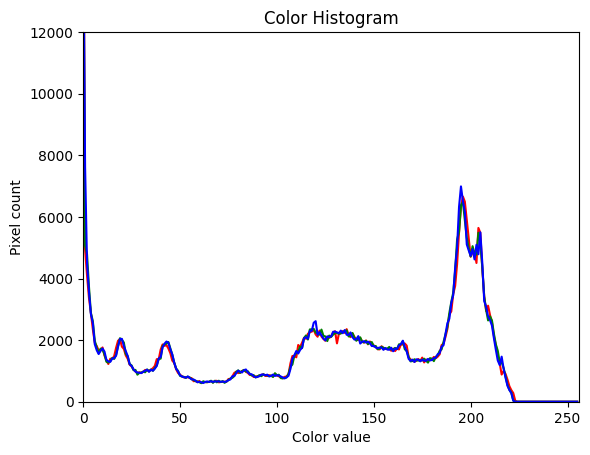
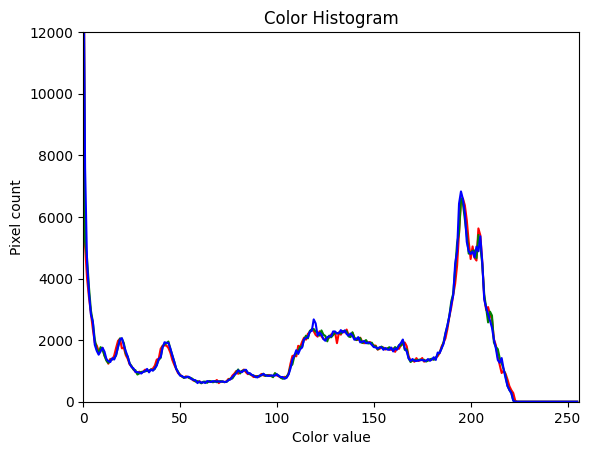
checkpoint

diff --git a/main.cpp b/main.cpp
@@ -86,6 +86,11 @@ void SlicedOptimalTransport(Settings& settings)
 
 	std::vector<uint32_t> currentSorted(c_numPixels);
 	std::vector<uint32_t> targetSorted(c_numPixels);
+	for (uint32_t i = 0; i < c_numPixels; ++i)
+	{
+		currentSorted[i] = i;
+		targetSorted[i] = i;
+	}
 
 	std::vector<float> currentProjections(c_numPixels);
 	std::vector<float> targetProjections(c_numPixels);
@@ -111,9 +116,6 @@ void SlicedOptimalTransport(Settings& settings)
 			// project current and target
 			for (size_t i = 0; i < c_numPixels; ++i)
 			{
-				currentSorted[i] = (uint32_t)i;
-				targetSorted[i] = (uint32_t)i;
-
 				currentProjections[i] =
 					direction[0] * current.pixels[i * 3 + 0] +
 					direction[1] * current.pixels[i * 3 + 1] +
@@ -156,14 +158,14 @@ void SlicedOptimalTransport(Settings& settings)
 		for (size_t i = 0; i < c_numPixels; ++i)
 		{
 			float adjust[3] = {
-				batchDirections[currentSorted[i] * 3 + 0] / float(c_batchSize),
-				batchDirections[currentSorted[i] * 3 + 1] / float(c_batchSize),
-				batchDirections[currentSorted[i] * 3 + 2] / float(c_batchSize)
+				batchDirections[i * 3 + 0] / float(c_batchSize),
+				batchDirections[i * 3 + 1] / float(c_batchSize),
+				batchDirections[i * 3 + 2] / float(c_batchSize)
 			};
 
-			current.pixels[currentSorted[i] * 3 + 0] += adjust[0];
-			current.pixels[currentSorted[i] * 3 + 1] += adjust[1];
-			current.pixels[currentSorted[i] * 3 + 2] += adjust[2];
+			current.pixels[i * 3 + 0] += adjust[0];
+			current.pixels[i * 3 + 1] += adjust[1];
+			current.pixels[i * 3 + 2] += adjust[2];
 
 			totalDistance += std::sqrt(adjust[0] * adjust[0] + adjust[1] * adjust[1] + adjust[2] * adjust[2]);
 		}
@@ -203,7 +205,7 @@ void InterpolateColorHistogram(Settings& settings, const char* outputFileNameBas
 	// do optimal transport to get the per pixel delta to get from the source image to the target image
 	SlicedOptimalTransport(settings);
 
-	// Do barycentric interpolation
+	// Do interpolation
 	ImageData output = settings.srcimage;
 	for (size_t valueIndex = 0; valueIndex < output.width * output.height * 3; ++valueIndex)
 		output.pixels[valueIndex] += settings.sourceDelta[valueIndex] * settings.weight;
@@ -254,9 +256,11 @@ int main(int argc, char** argv)
 /*
 TODO:
 * make a csv of total movement over time and graph it to see if it's enough steps
-* output how long it took. not super important
+* output how long it took. not super important though
 * clean up code?
-* optimize code? omp?
 * make an interpolation example with 2 images
+* move python calls into a batch file, instead of running python from c++
 ! mention in the post that you could do barycentric interpolation with multiple images. and could even go "outside of the simplex" with those coordinates to move away from histograms etc.
+! mention that the sorting is the slowest part, per the profiler. same as the other post. could multithread it but :shrug:
+! say how long it took, and what resolution image
 */
